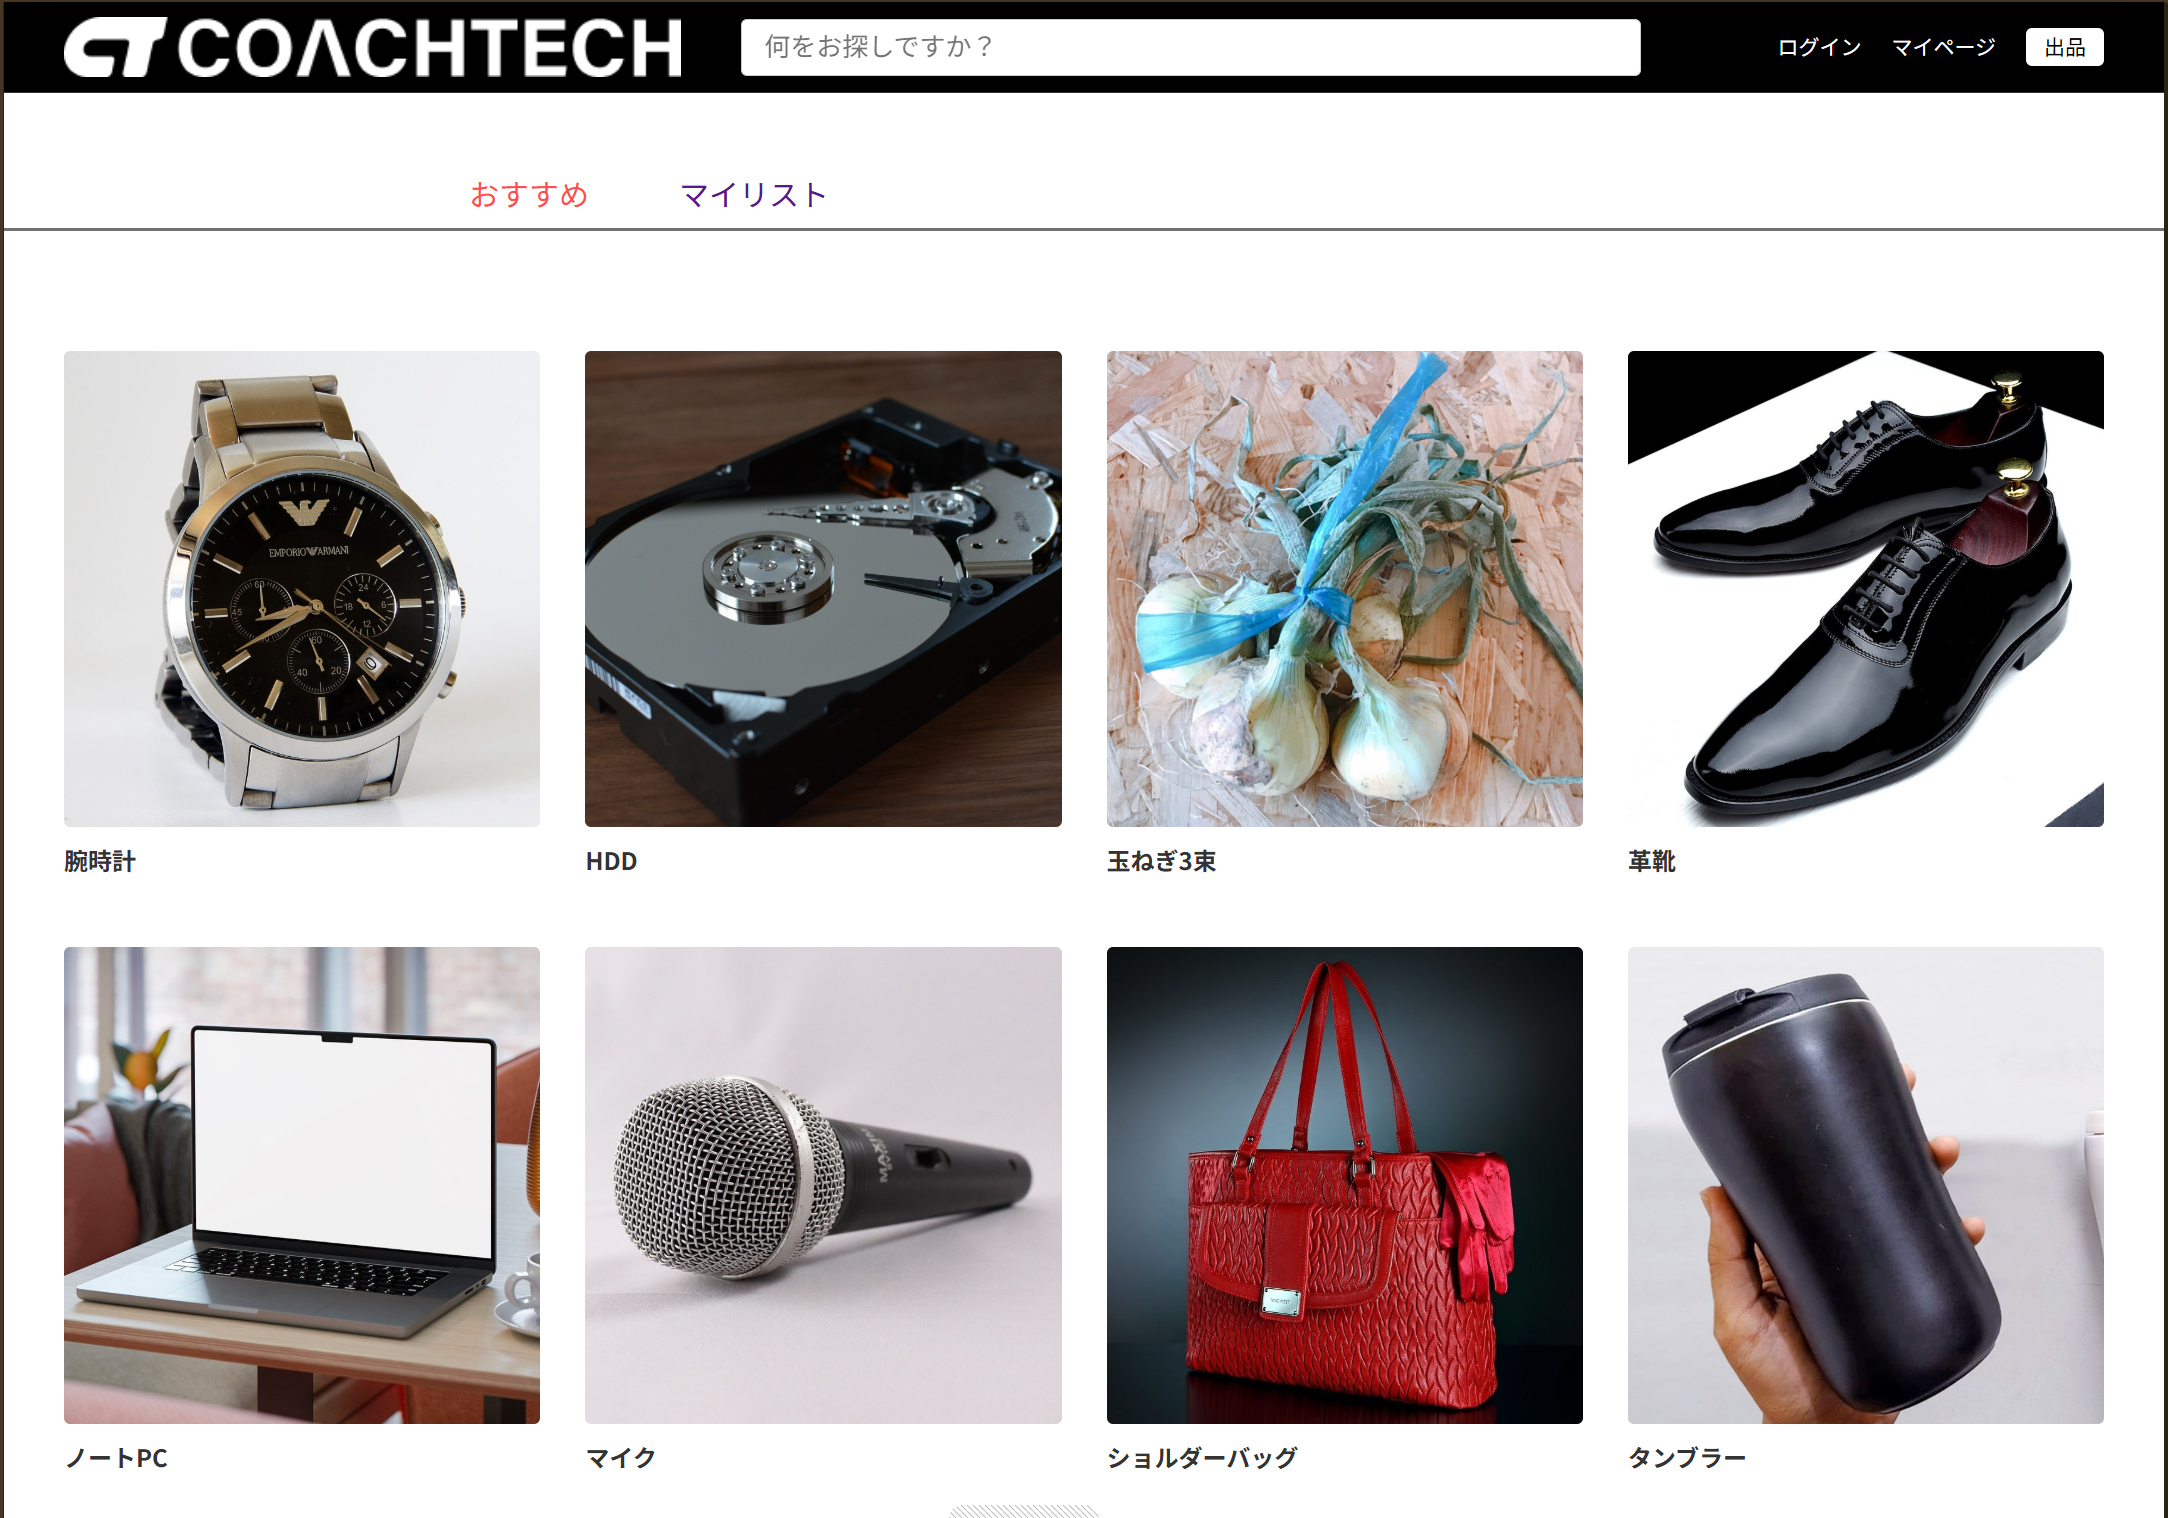
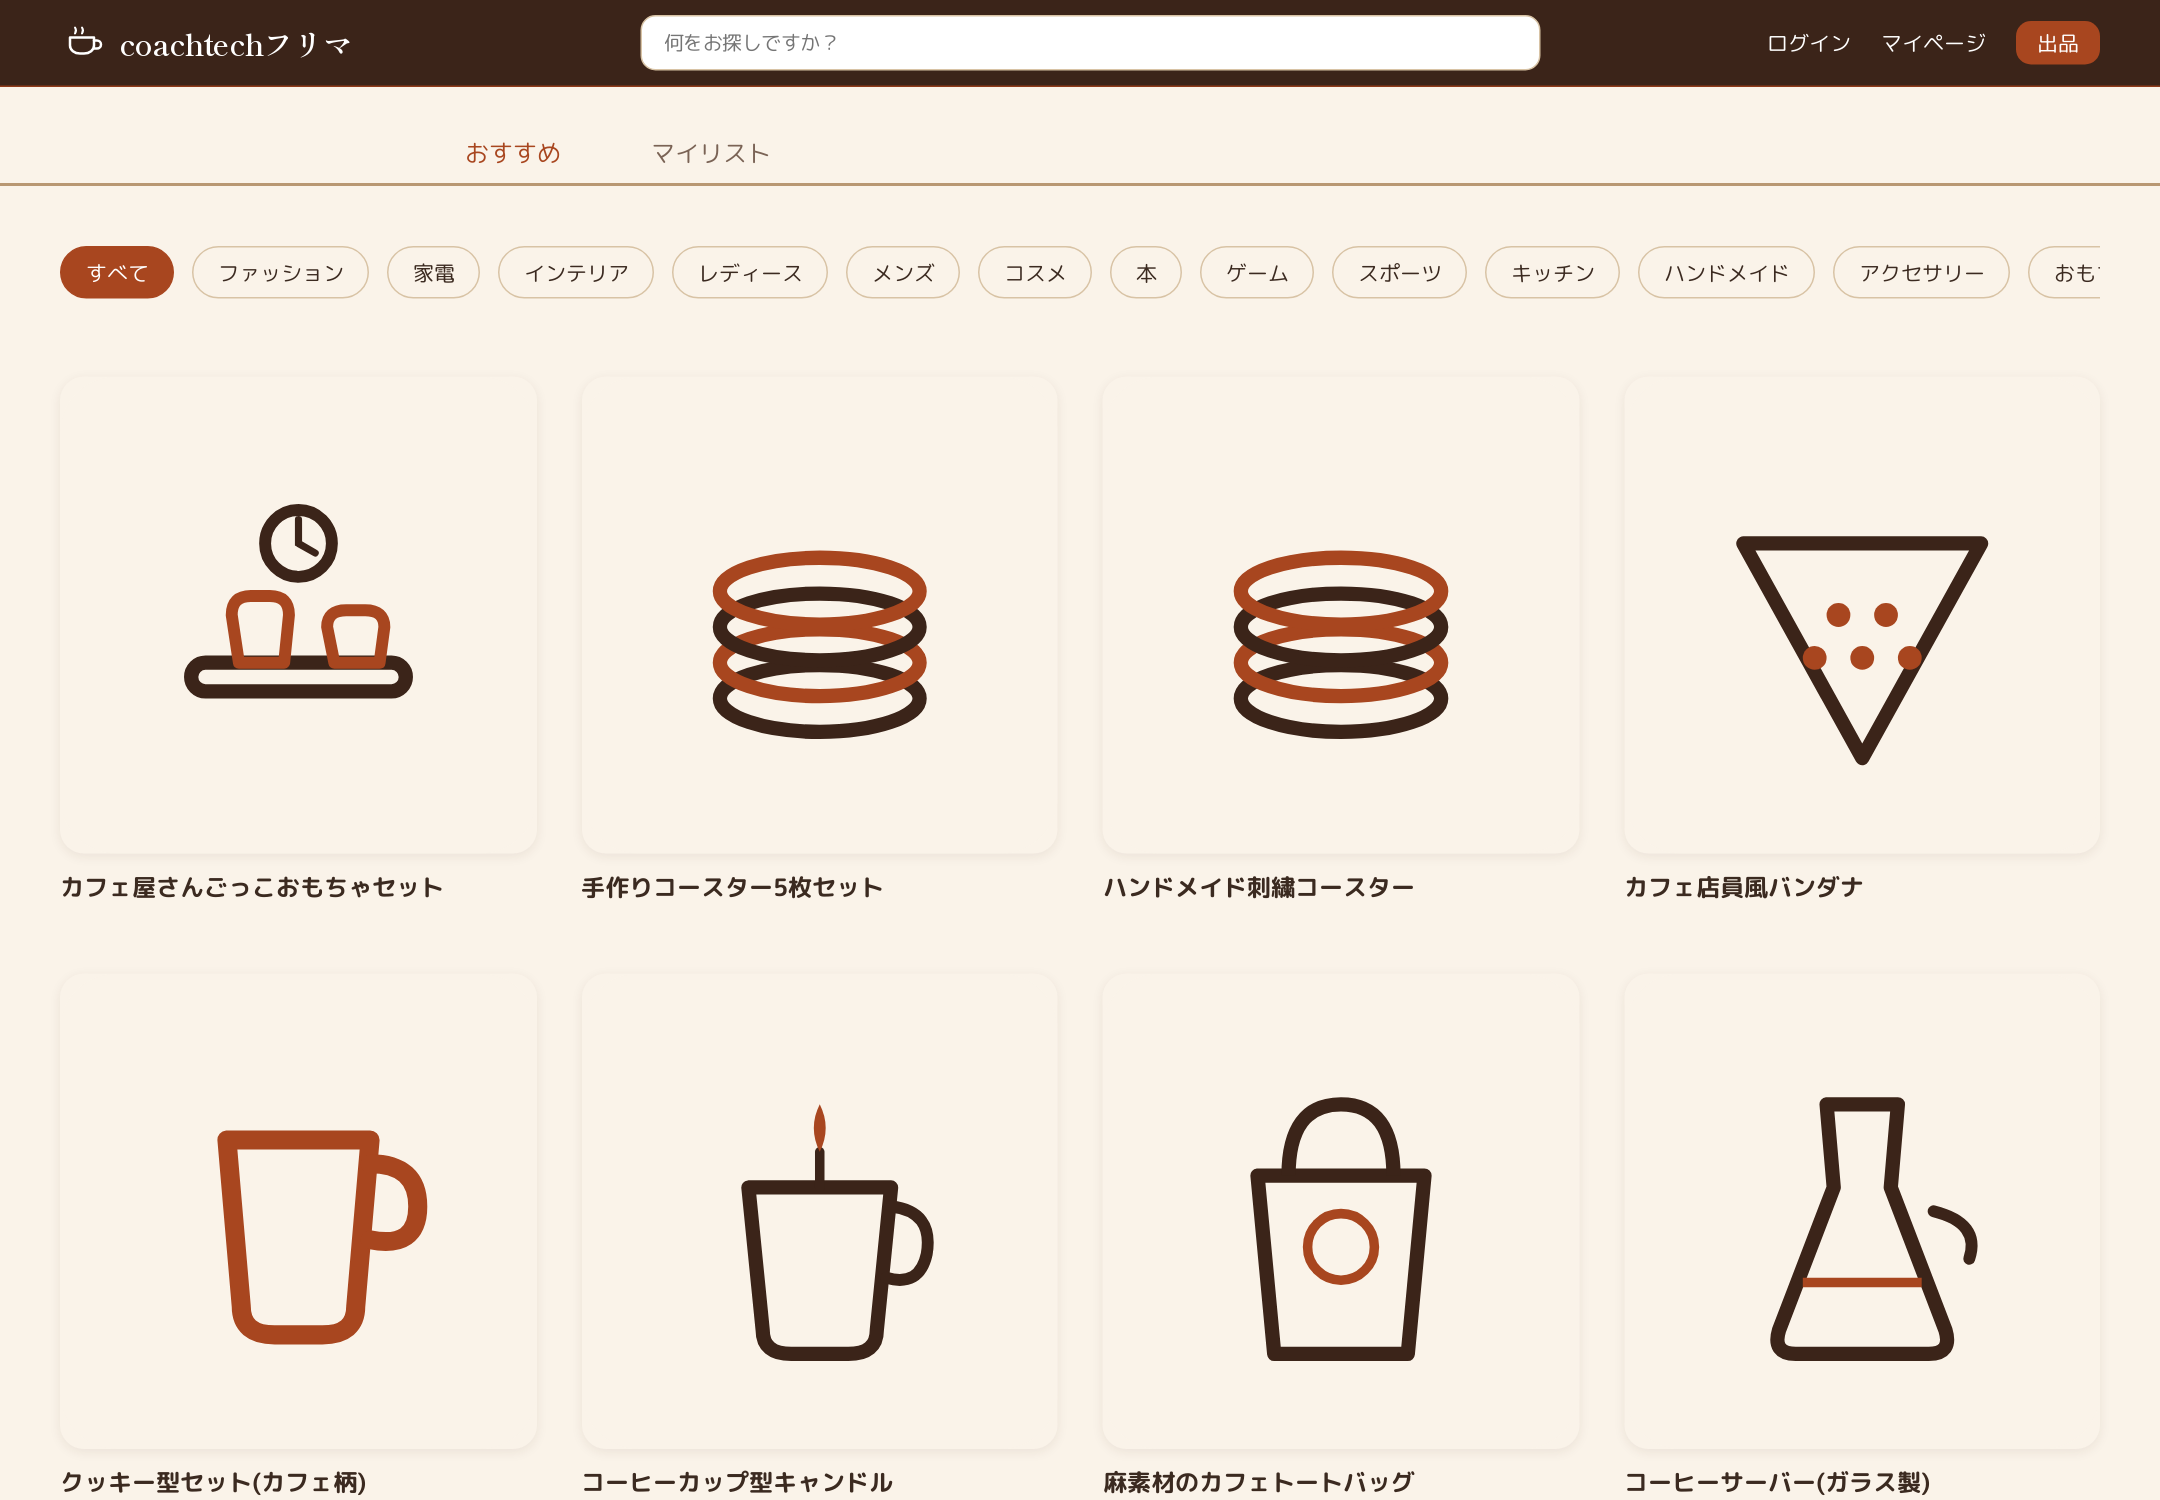
アプリ名をLatte&Itemに変更し、READMEのスクリーンショットを最新デザインに更新
ヘッダーロゴの表記を「coachtechフリマ」から「Latte&Item」に変更。
あわせてREADMEのサンプル画像(商品一覧・商品詳細)を、カフェモチーフの
現行デザインで撮り直したものに差し替えた。

diff --git a/src/resources/views/layouts/app.blade.php b/src/resources/views/layouts/app.blade.php
@@ -19,12 +19,12 @@
             <div class="header-logo">
                 <a href="{{ url('/') }}" class="logo-link">
                     <svg class="logo-icon" viewBox="0 0 48 48" fill="none" xmlns="http://www.w3.org/2000/svg" aria-hidden="true">
-                        <path d="M10 18 H34 V26 A10 8 0 0 1 24 34 H20 A10 8 0 0 1 10 26 Z" stroke="currentColor" stroke-width="2.5" stroke-linejoin="round"/>
-                        <path d="M34 21 h3 a4 4 0 0 1 0 8 h-3" stroke="currentColor" stroke-width="2.5" stroke-linecap="round" stroke-linejoin="round"/>
-                        <path d="M15 14 q2 -3 0 -6" stroke="currentColor" stroke-width="2" stroke-linecap="round"/>
-                        <path d="M22 14 q2 -3 0 -6" stroke="currentColor" stroke-width="2" stroke-linecap="round"/>
+                        <path d="M10 18 H34 V26 A10 8 0 0 1 24 34 H20 A10 8 0 0 1 10 26 Z" stroke="currentColor" stroke-width="2.5" stroke-linejoin="round" />
+                        <path d="M34 21 h3 a4 4 0 0 1 0 8 h-3" stroke="currentColor" stroke-width="2.5" stroke-linecap="round" stroke-linejoin="round" />
+                        <path d="M15 14 q2 -3 0 -6" stroke="currentColor" stroke-width="2" stroke-linecap="round" />
+                        <path d="M22 14 q2 -3 0 -6" stroke="currentColor" stroke-width="2" stroke-linecap="round" />
                     </svg>
-                    <span class="logo-text">coachtechフリマ</span>
+                    <span class="logo-text">Latte&Item</span>
                 </a>
             </div>
             @if(!Route::is('login') && !Route::is('register'))
